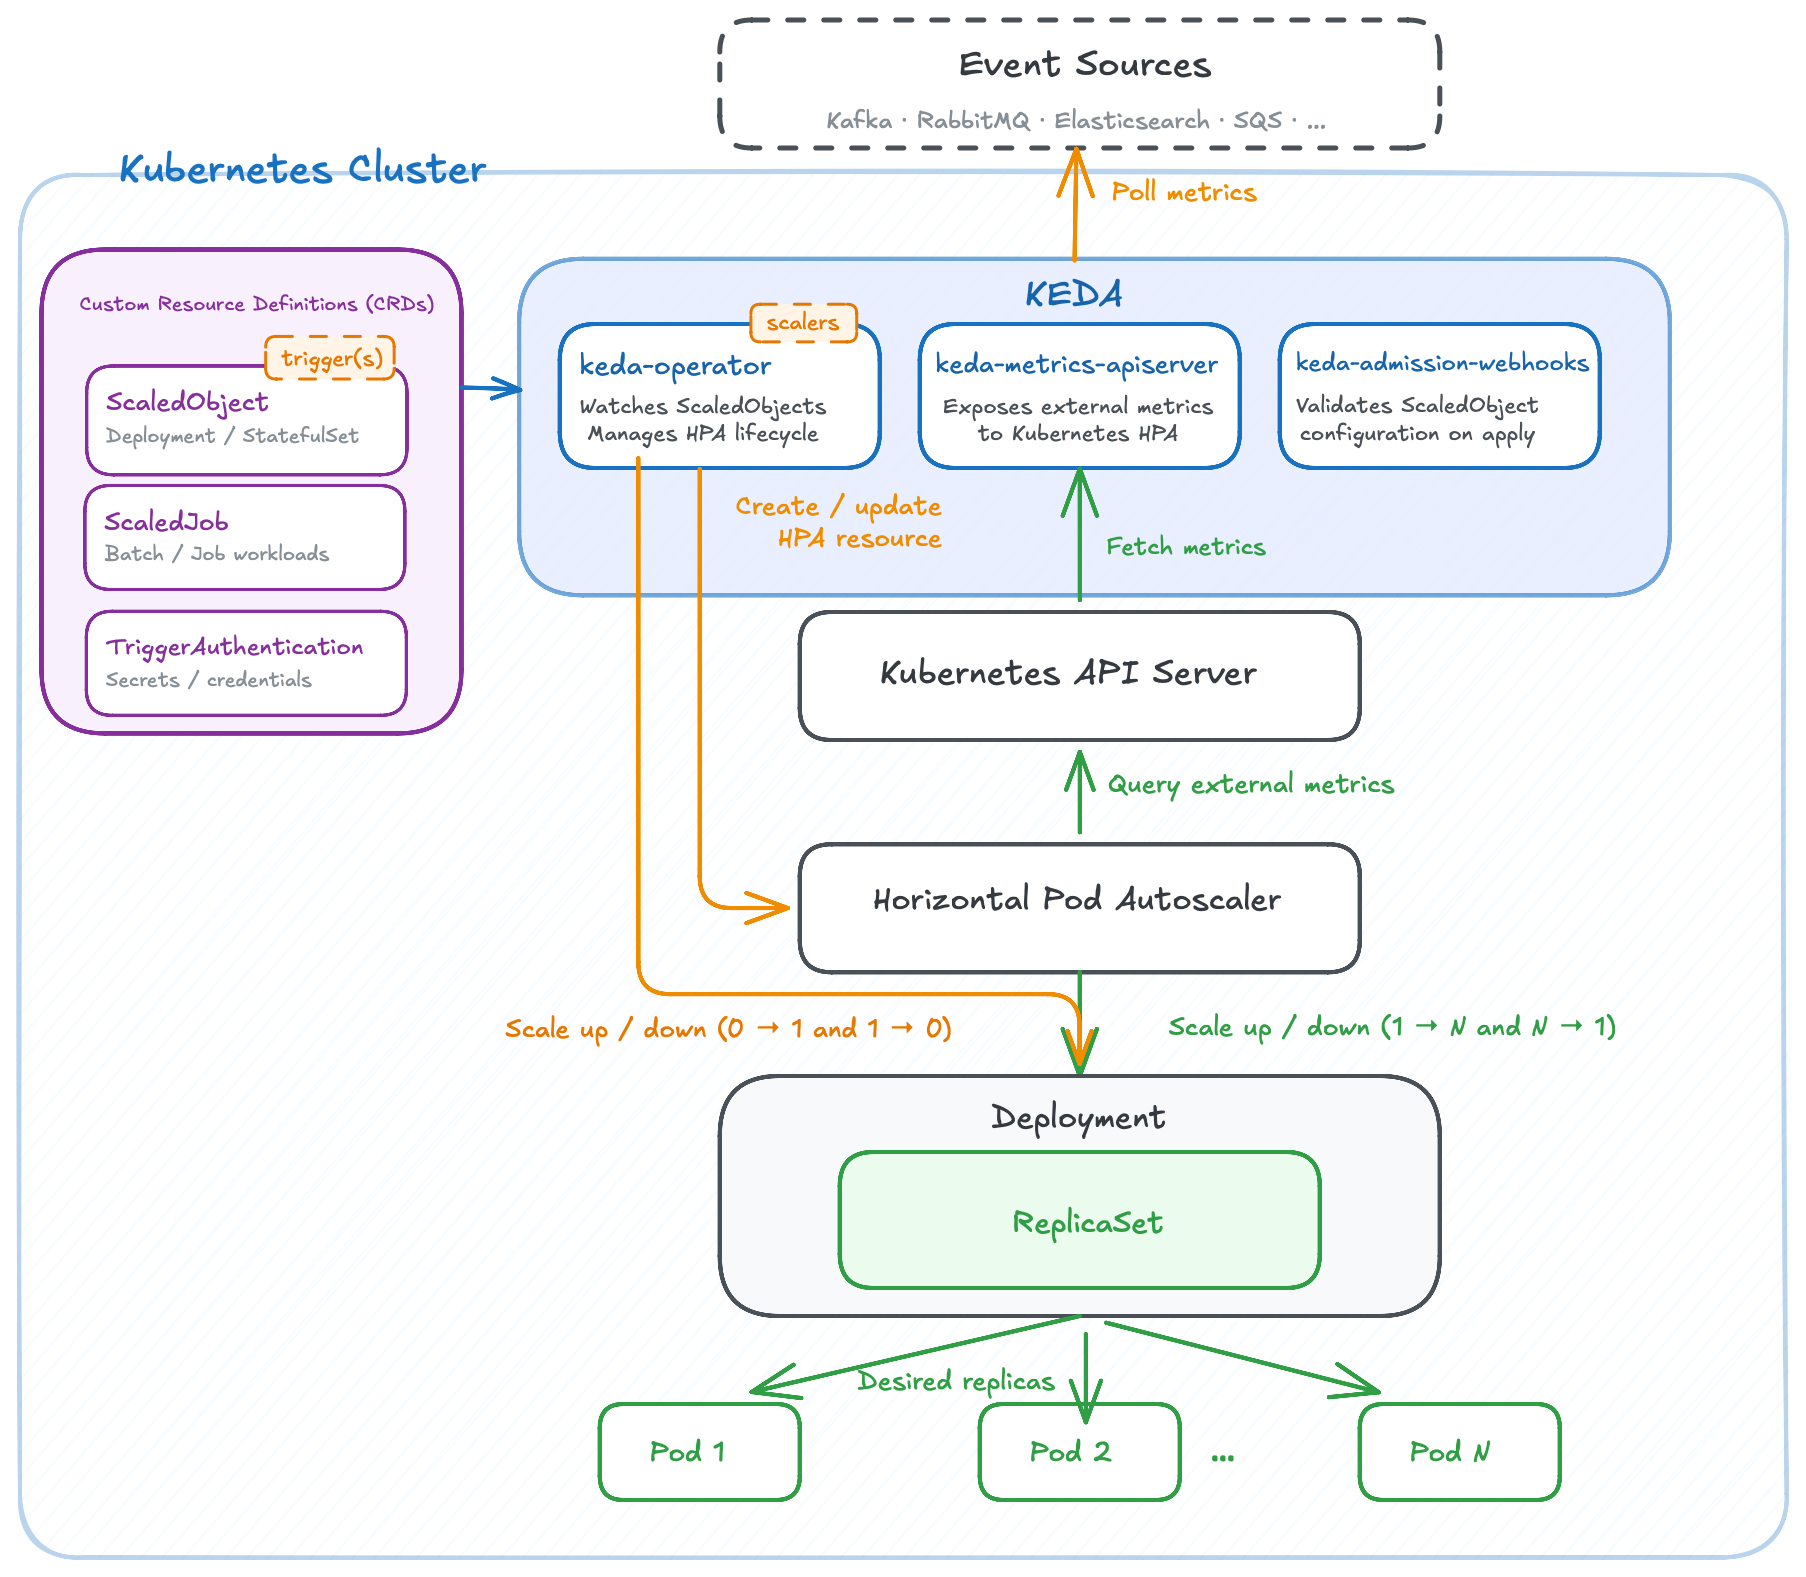
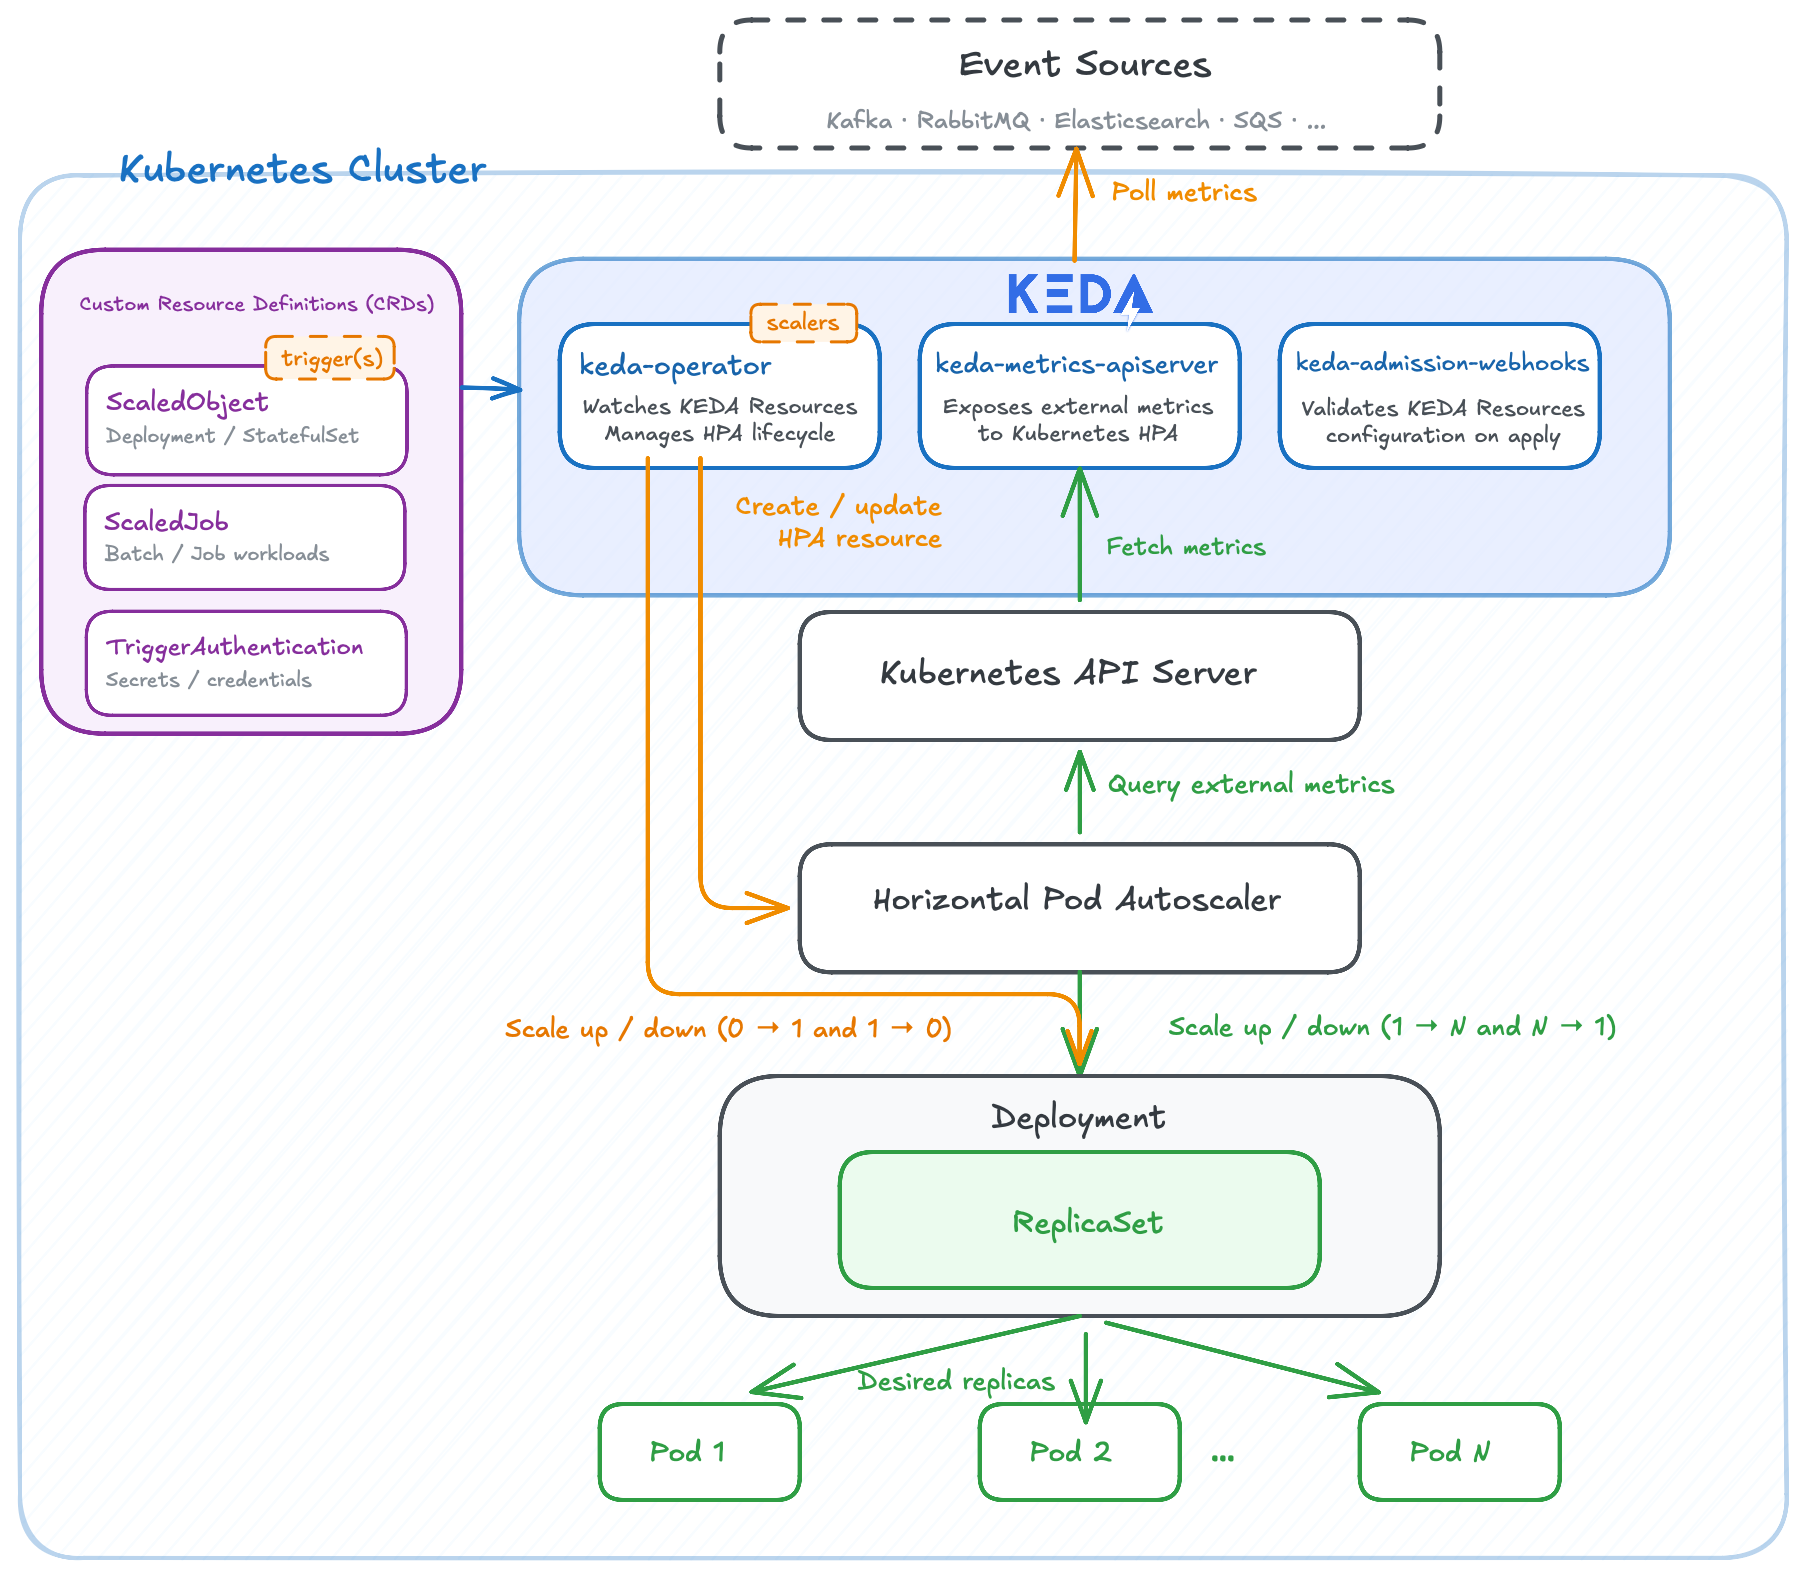
update after feedback

Changed region(s): [[0.3101, 0.2486, 0.4651, 0.6214], [0.7132, 0.2486, 0.8682, 0.2796], [0.5581, 0.1554, 0.6512, 0.2175]]

diff --git a/content/docs/2.20/concepts/_index.md b/content/docs/2.20/concepts/_index.md
@@ -26,9 +26,9 @@ The diagram below shows how KEDA works in conjunction with the Kubernetes Horizo
 
 KEDA runs three components inside the Kubernetes cluster, each with a distinct responsibility:
 
-* **keda-operator** watches your ScaledObjects and manages the full HPA lifecycle. It is also directly responsible for scaling a workload between zero and one replica—bringing an idle deployment back to life when events arrive, or scaling it down to zero when there is nothing to process.
+* **keda-operator** watches KEDA resources like your ScaledObjects and manages the full HPA lifecycle. It is also directly responsible for scaling a workload between zero and one replica—bringing an idle deployment back to life when events arrive, or scaling it down to zero when there is nothing to process.
 * **keda-metrics-apiserver** exposes the external metrics (polled from event sources such as Kafka, RabbitMQ, Elasticsearch, or SQS) to the Kubernetes HPA via the Kubernetes API Server. The HPA queries these metrics to decide how many replicas are needed above one.
-* **keda-admission-webhooks** validate every ScaledObject at the moment it is applied, catching configuration mistakes, such as two ScaledObjects targeting the same deployment, before they cause problems at runtime.
+* **keda-admission-webhooks** validate every KEDA resource like your ScaledObject at the moment it is applied, catching configuration mistakes, such as two ScaledObjects targeting the same deployment, before they cause problems at runtime.
 
 The scaling flow works in two complementary tracks:
 
